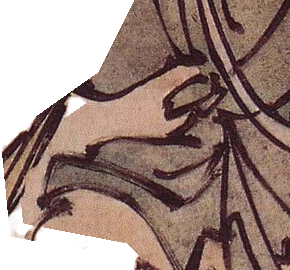
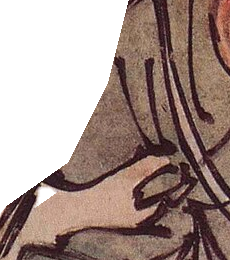
무동 머리잘림 수정 시점으로 복원

diff --git a/src/views/MinhwaHomeView.vue b/src/views/MinhwaHomeView.vue
@@ -94,9 +94,9 @@ const chapters = [
         idle: 'sway',
         z: 3,
         parts: [
-          { src: cut('mudong_sleeve_r'), left: '23.9%', top: '1.9%', w: '50.7%', anim: 'p-flutter', origin: '72% 92%' },
-          { src: cut('mudong_sleeve_l'), left: '0%', top: '41.7%', w: '40.8%', anim: 'p-flutter-b', origin: '90% 12%' },
-          { src: cut('mudong_leg'), left: '42.3%', top: '64.1%', w: '39.4%', anim: 'p-kick', origin: '48% 8%' },
+          { src: cut('mudong_sleeve_r'), left: '42.3%', top: '3.9%', w: '31%', anim: 'p-flutter', origin: '10% 85%' },
+          { src: cut('mudong_sleeve_l'), left: '4.2%', top: '33%', w: '32.4%', anim: 'p-flutter-b', origin: '85% 20%' },
+          { src: cut('mudong_leg'), left: '46.5%', top: '68%', w: '32.4%', anim: 'p-kick', origin: '50% 8%' },
         ],
       },
       { src: cut('mudong_buk'), t: 0.1, left: '5%', top: '3%', w: '21%', depth: 8, ox: -8, oy: -10, ds: 0.02, idle: 'bob', z: 1 },
